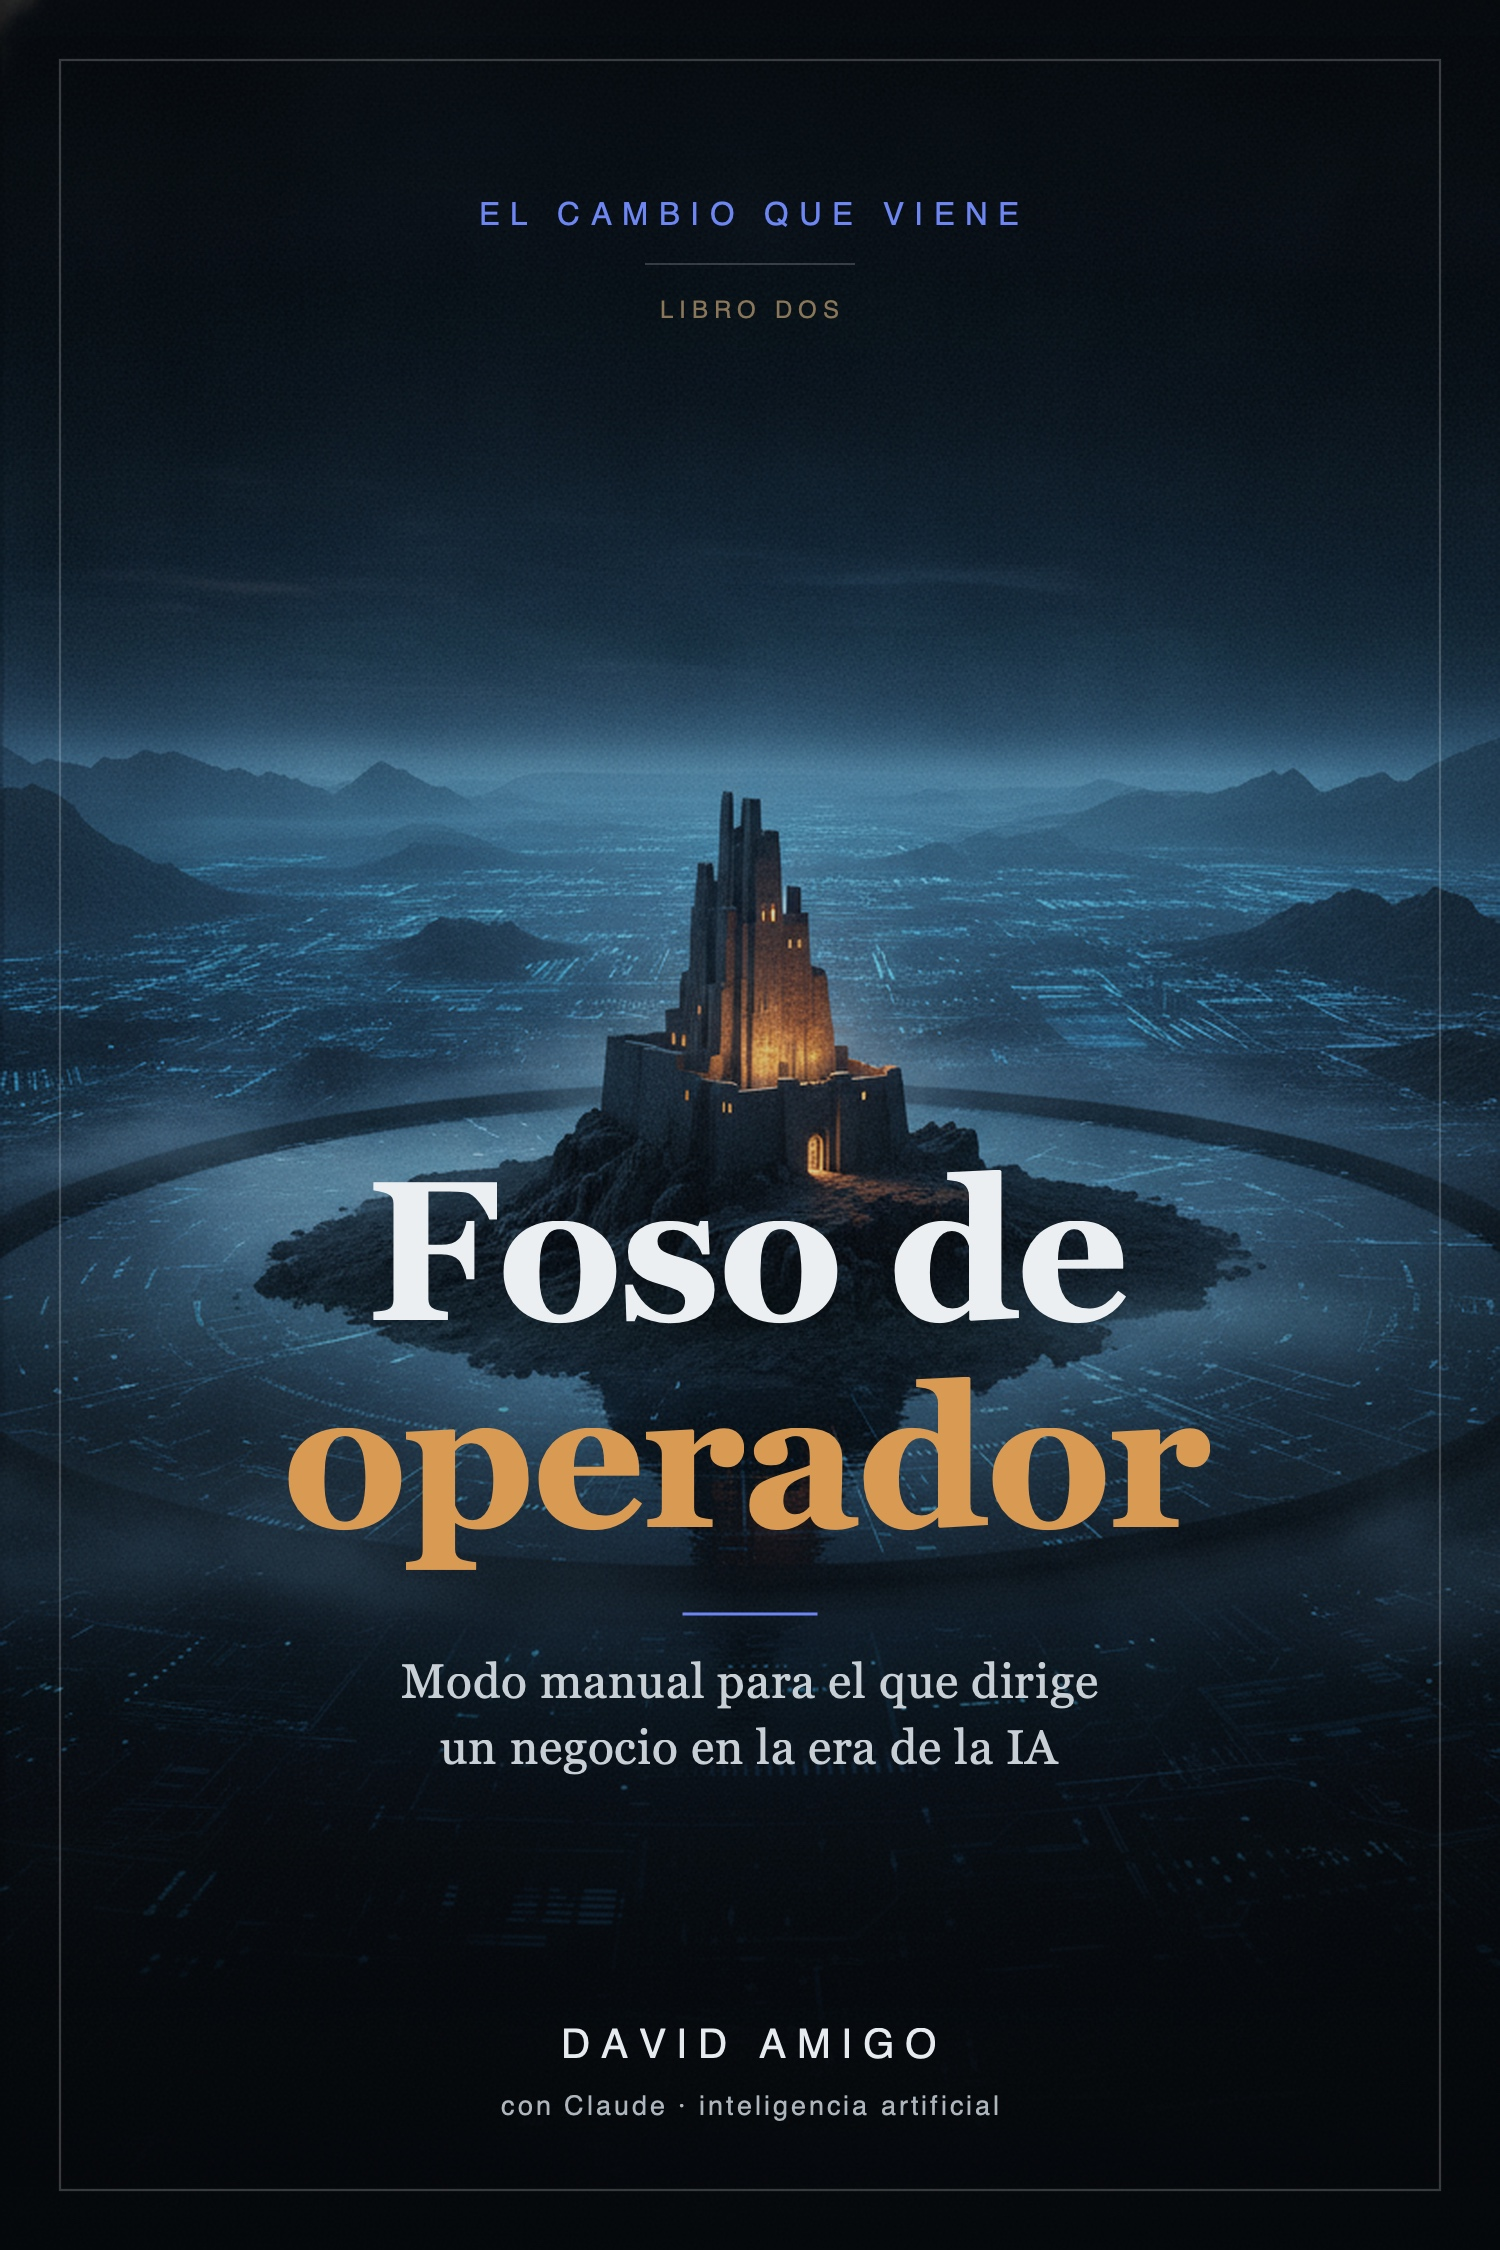
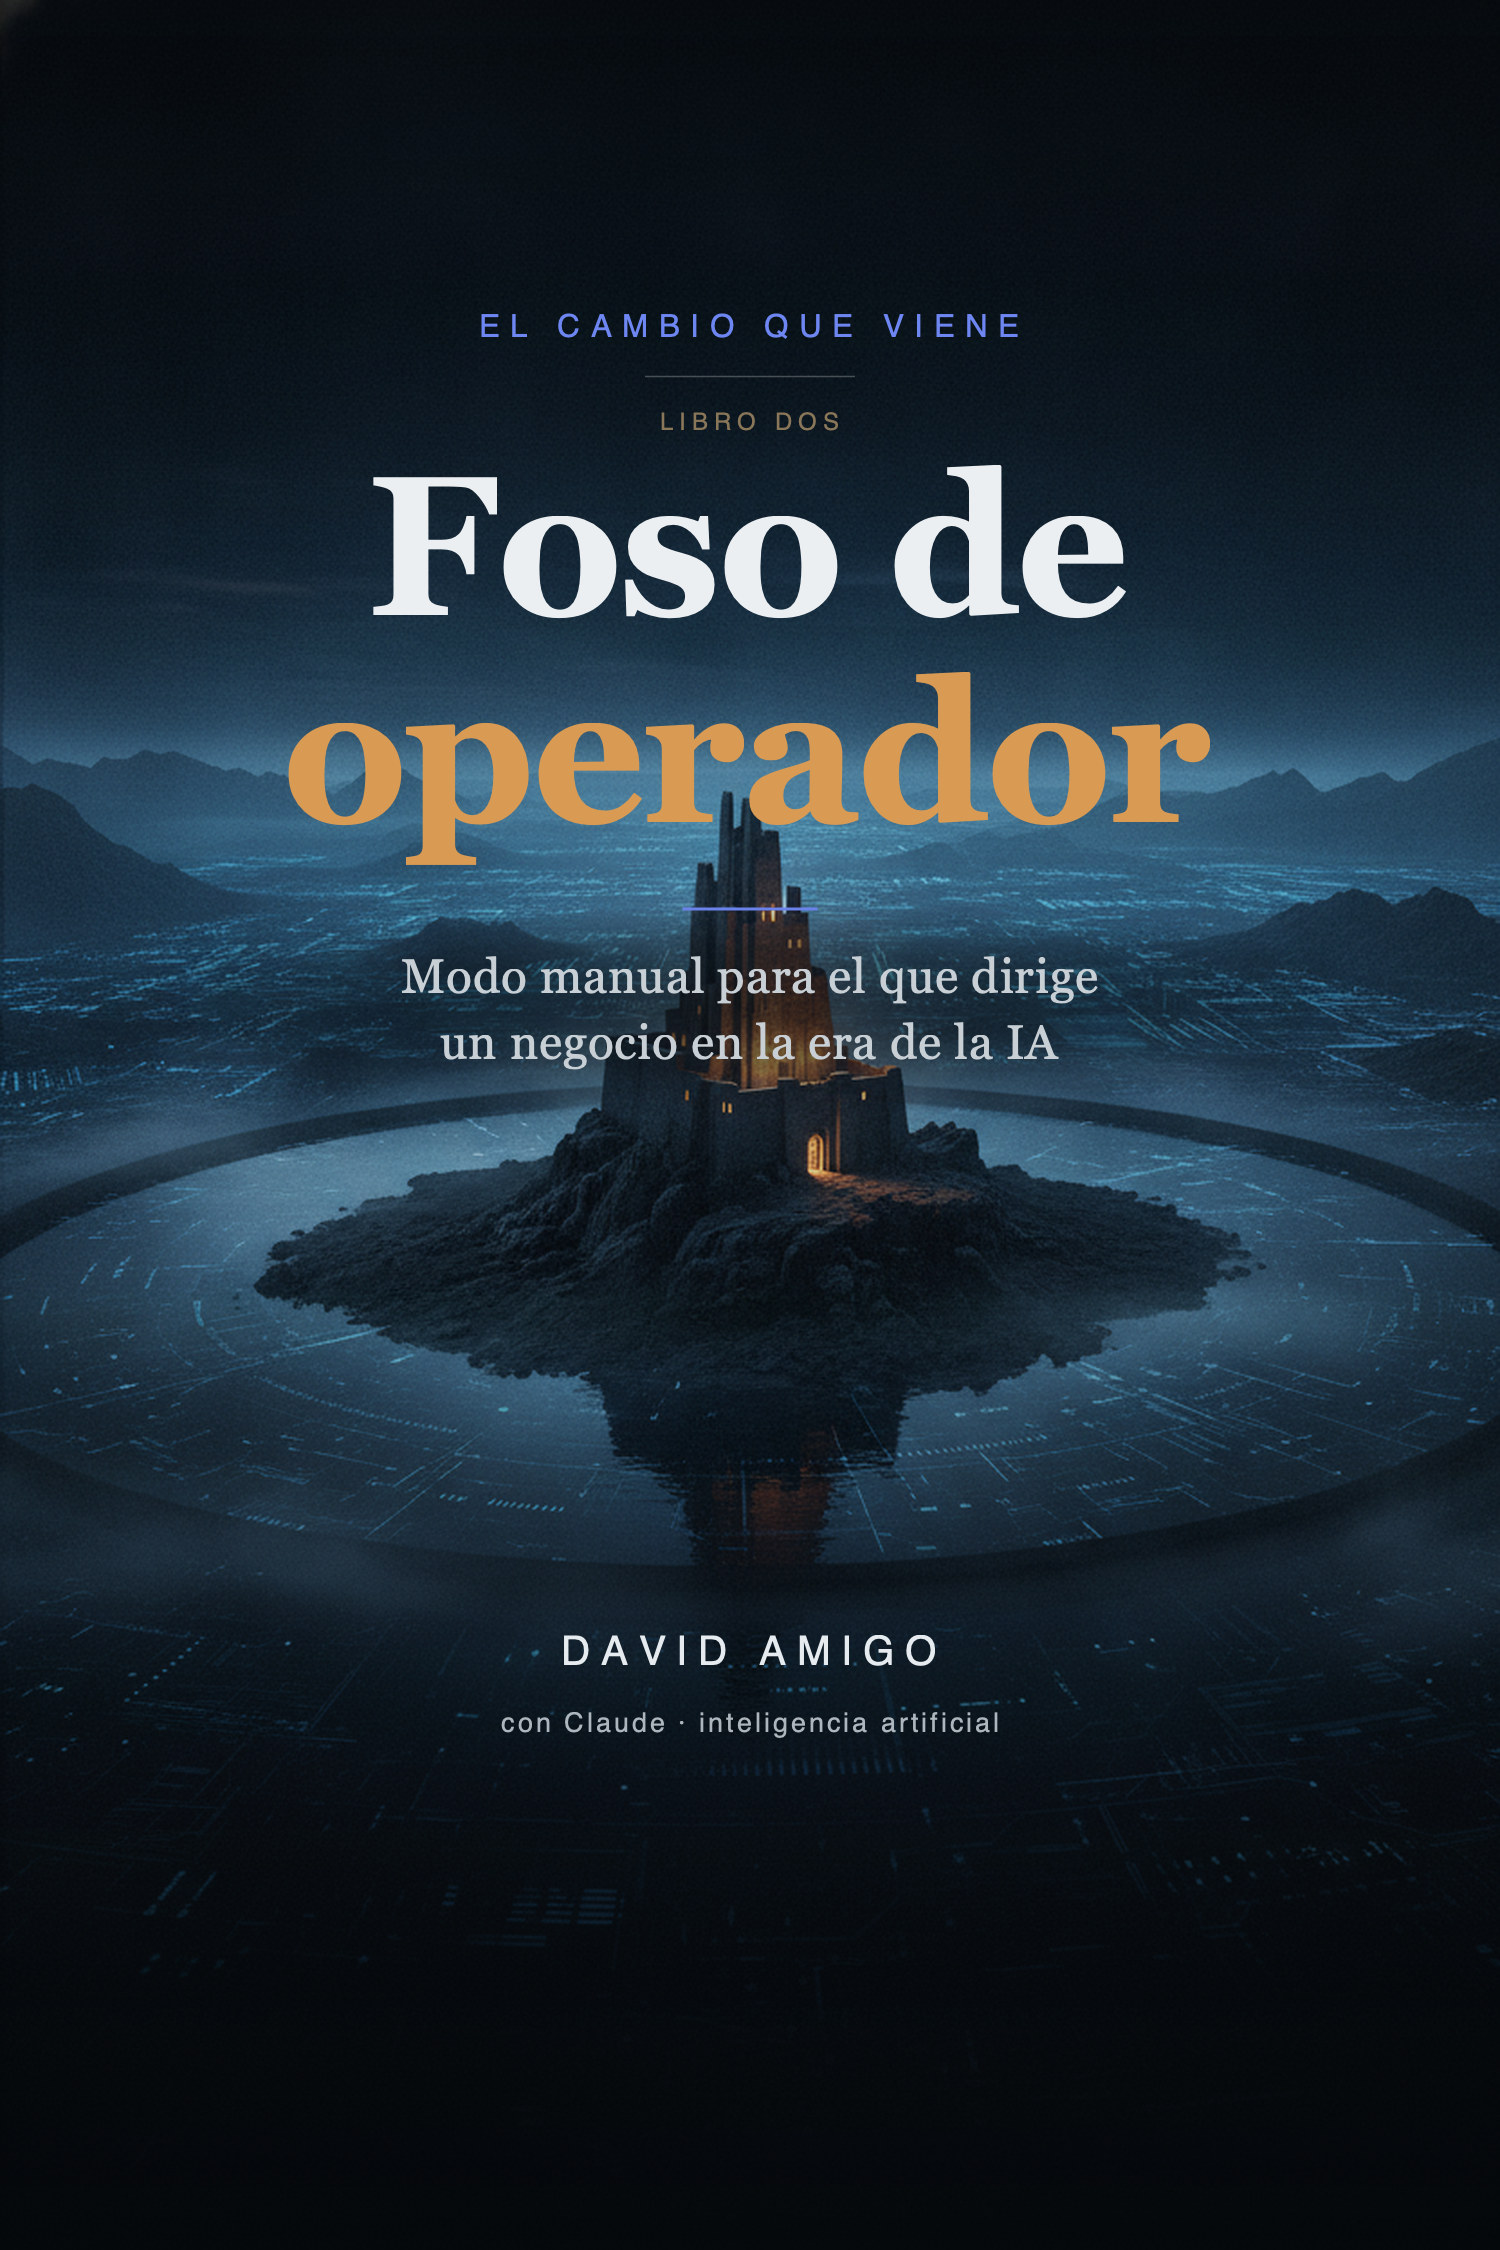
Serie 4 «Con la cabeza fría» en la web + portadas al día
- Nueva serie 04 con «Recuperar la cabeza» como próximamente (sin badge
  «empieza aquí»: no tiene sentido en un libro que aún no se puede comprar).
- «Sobre el autor» dejó de hablar solo de la primera serie: ahora dice las
  tres publicadas, los once títulos a la venta y la cuarta en camino.
- Las 15 portadas regeneradas desde los originales de hoy: sin el marco,
  numeración de libro en letra y contraste del subtítulo corregido. Las que
  había eran del 4-7 de agosto y ya no coincidían con lo que va a KDP.

diff --git a/src/data/libros.ts b/src/data/libros.ts
@@ -18,6 +18,7 @@ export type Libro = {
 export const serie1 = 'El cambio que viene';
 export const serie2 = 'Sin humo';
 export const serie3 = 'A ciencia cierta';
+export const serie4 = 'Con la cabeza fría';
 
 // Metadatos de cada serie (para las secciones de la web y sus páginas propias).
 export type Serie = { nombre: string; slug: string; descripcion: string };
@@ -39,6 +40,12 @@ export const series: Serie[] = [
     slug: 'a-ciencia-cierta',
     descripcion:
       'Salud sin milagros ni pánicos: comida, ejercicio, sueño y longevidad separando lo poco que de verdad mueve la aguja del humo que lo tapa, con dato y fuente y sin culpa. Un detector de humos para tu cuerpo. Los dos primeros, ya a la venta.',
+  },
+  {
+    nombre: serie4,
+    slug: 'con-la-cabeza-fria',
+    descripcion:
+      'La cabeza: atención, tiempo, hábitos y criterio. La misma vara de medir, aplicada a lo que pasa dentro de ti mientras dos industrias se pelean por tu atención. En preparación.',
   },
 ];
 
@@ -340,6 +347,22 @@ export const libros: Libro[] = [
       'Asociación no es causa, y el ratón no es un humano.',
       'Riesgo relativo frente a absoluto: el truco favorito del titular.',
       'Un detector de humos universal, para que lo veas tú sin que te lo digan.',
+    ],
+  },
+  {
+    slug: 'recuperar-la-cabeza',
+    titulo: 'Recuperar la cabeza',
+    subtitulo: 'Atención, móvil y el negocio de que te sientas roto',
+    serie: serie4,
+    numero: 1,
+    estado: 'proximamente',
+    portada: '/portadas/recuperar-la-cabeza.jpg',
+    sinopsis:
+      'Hay dos industrias viviendo de tu atención: una gana si miras la pantalla y otra gana si te sientes roto por haberla mirado. Este libro rastrea hasta su origen las cifras que todo el mundo repite sobre tu cabeza —los 23 minutos para reconcentrarte, los 8 segundos de atención, los 2.617 toques al día— y descubre que ninguna aguanta; y comprueba después que varios de los efectos científicos citados en su contra tampoco. Lo que queda en pie es pequeño, gratis y aburrido, y por eso nadie te lo cuenta.',
+    puntos: [
+      'Las cifras que todo el mundo repite sobre tu atención, rastreadas hasta su origen.',
+      'El «detox de dopamina» y la industria de la solución, por dentro.',
+      'Lo que sí funciona: diseñar la fricción, volver a leer, y poco más.',
     ],
   },
 ];
